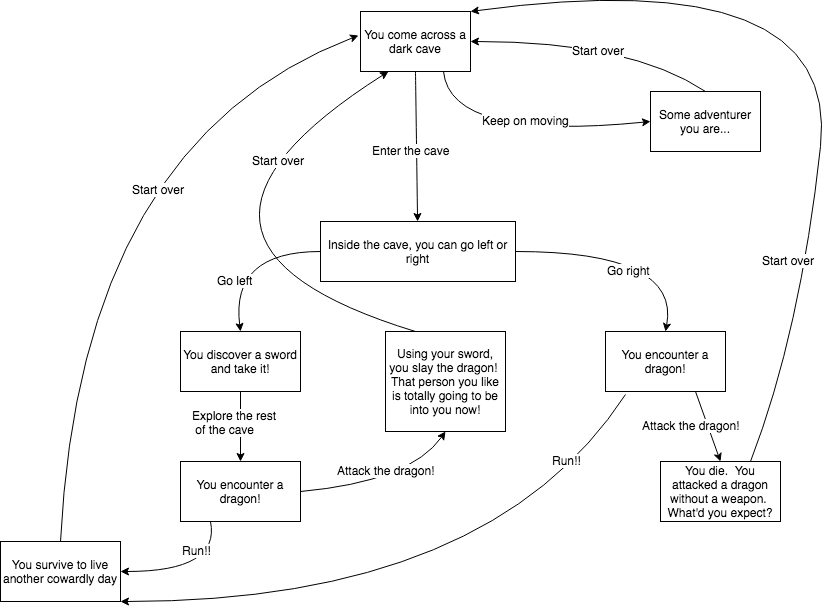
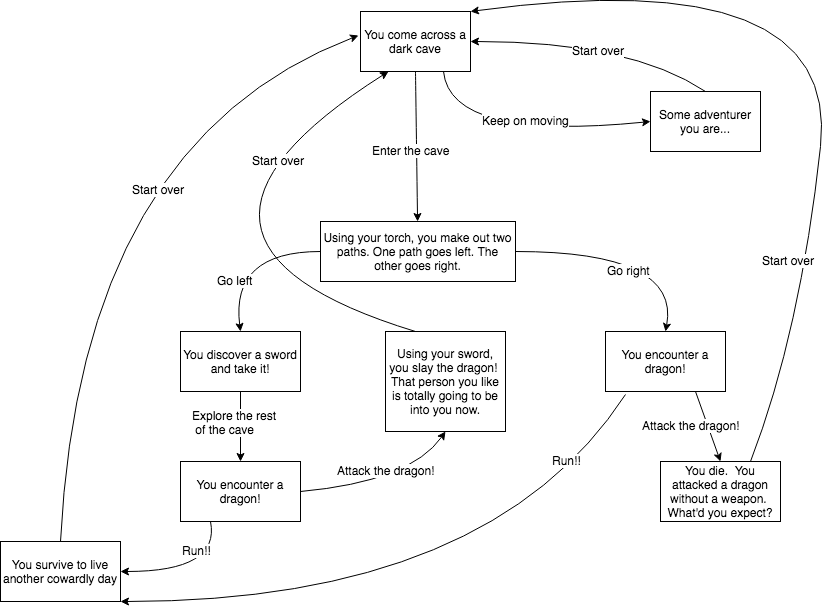
Update text and diagram

Changed region(s): [[0.3911, 0.3861, 0.6318, 0.4455], [0.4813, 0.6535, 0.5716, 0.6832]]

diff --git a/js/game.js b/js/game.js
@@ -31,7 +31,7 @@ var game = {
         },
 
         cave: {
-            message: "Inside the cave, you can go left or right",
+            message: "Using your torch, you make out two paths. One path goes left. The other goes right.",
             background_image: "fire.gif",
             choices: [
                 {
